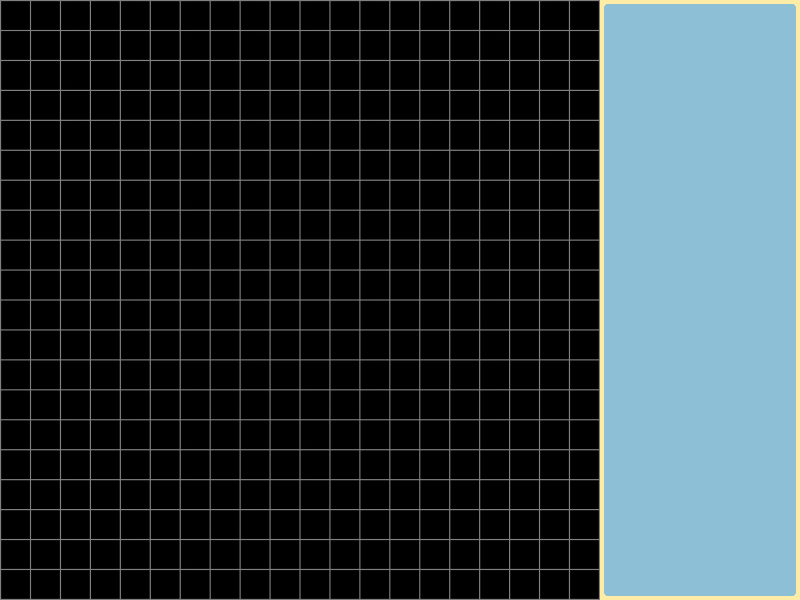
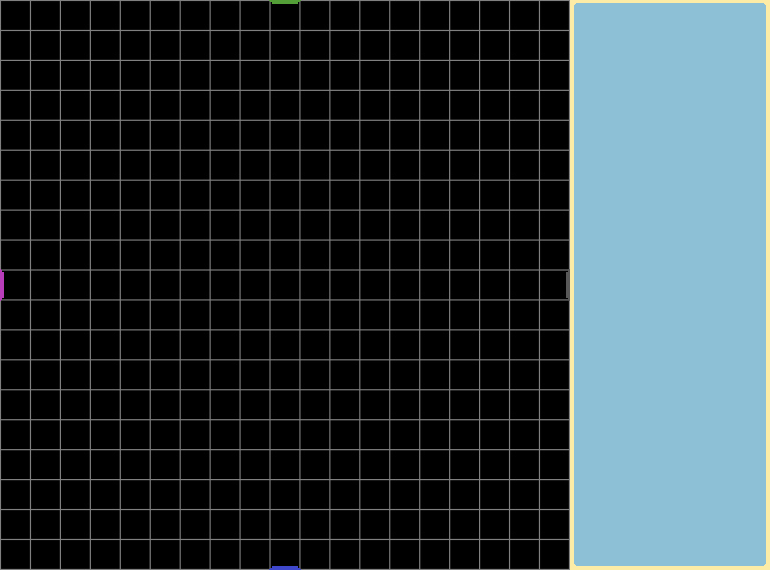
Add files via upload

Changed region(s): [[0.0, 0.0, 0.7792, 1.0]]

diff --git a/snk.py b/snk.py
@@ -53,6 +53,10 @@ class PictureButton:
             return True
         return False
 
+
+
+
+
 ### кнопки
 menu_button = Button(635, 30, 130, 45, "sc bold.ttf", text="MENU", font_size = 60)
 speed_button = Button(650, 100, 100, 30, "sc bold.ttf", text="Speed", font_size = 40)
@@ -82,30 +86,34 @@ def reset_fight():
     moves = []
     dont_move = [False]*4
     config = []
-    spd = 1
+    spd = 5
     
     for i in range(amount):
         moves.append([])
-        for j in range(8):
-            moves[i].append([-100, -100])
+    for j in range(12):
+        moves[0].append([9*size, 0])
+        moves[1].append([-0, 9*size])
+        moves[2].append([9*size, 18*size])
+        moves[3].append([18*size, 9*size])
+        
+    for i in range(19):
+        config.append([0]*19)
 
-    for i in range(20):
-        config.append([0]*20)
 
-
-    moves[0][0][0] = size*10; moves[0][0][1] = -size
-    if amount > 1:moves[1][0][0] = -size; moves[1][0][1] = size*10
-    if amount > 2:moves[2][0][0] = size*10; moves[2][0][1] = size*20
-    if amount > 3:moves[3][0][0] = size * 20; moves[3][0][1] = size * 10
+    moves[0][0][0] = size * 9; moves[0][0][1] = 0
+    if amount > 1:moves[1][0][0] = 0; moves[1][0][1] = size * 9
+    if amount > 2:moves[2][0][0] = size * 9; moves[2][0][1] = size * 18
+    if amount > 3:moves[3][0][0] = size * 18; moves[3][0][1] = size * 9
     
 def move(x, y, direction, i):
     global dont_move
 
     if not(1 <= x//size and config[y//size][x//size-1] in (0, 3)) and not(
-           x//size < 19 and config[y//size][x//size+1] in (0, 3)) and not(
+           x//size < 18 and config[y//size][x//size+1] in (0, 3)) and not(
            1 <= y//size and config[y//size-1][x//size] in (0, 3)) and not(
-           y//size < 19 and config[y//size+1][x//size] in (0, 3)):
+           y//size < 18 and config[y//size+1][x//size] in (0, 3)):
         dont_move[i] = True
+        
             
     else:
         dont_move[i] = False
@@ -113,13 +121,13 @@ def move(x, y, direction, i):
         if 1 <= x//size and config[y//size][x//size-1] in (0, 3) and direction == 'left':
             x -= size
             changing_coords(x, y, i)
-        elif x//size < 19 and config[y//size][x//size+1] in (0, 3) and direction == 'right':
+        elif x//size < 18 and config[y//size][x//size+1] in (0, 3) and direction == 'right':
             x += size
             changing_coords(x, y, i)
         elif 1 <= y//size and config[y//size-1][x//size] in (0, 3) and direction == 'up':
             y -= size
             changing_coords(x, y, i)
-        elif y//size < 19 and config[y//size+1][x//size] in (0, 3) and direction == 'down':
+        elif y//size < 18 and config[y//size+1][x//size] in (0, 3) and direction == 'down':
             y += size
             changing_coords(x, y, i)
         else:
@@ -127,16 +135,14 @@ def move(x, y, direction, i):
 
 def changing_coords(x, y, i ):
     global moves, config
-    config[moves[i][-1][1] // size][moves[i][-1][0] // size] = 0
-
-    for j in range(len(moves[i])-1, 0, -1):
-        moves[i][j][0] = moves[i][j-1][0]
-        moves[i][j][1] = moves[i][j-1][1]
-        config[moves[i][j][1] // size][moves[i][j][0] // size] = 1
-
-    moves[i][0][0], moves[i][0][1] = x, y
+    
+    moves[i] = [[x, y]] + moves[i][:-1]
+    
+    config[moves[i][-1][1] // size][moves[i][-1][0] // size] = 0    
+    config[moves[i][1][1] // size][moves[i][1][0] // size] = 1
     config[y//size][x//size] = 2
-    config[moves[i][-1][1] // size][moves[i][-1][0] // size] = 3
+    if moves[i][-1] != moves[i][-2]:
+        config[moves[i][-1][1] // size][moves[i][-1][0] // size] = 3
 
 
 def Quit_the_game():
@@ -150,13 +156,13 @@ def Quit_the_game():
 def head_rotation(i, head_name):
     head = pg.transform.scale(pg.image.load(os.path.join(images_path, head_name)),(size, size))
 
-    if moves[i][0][1] < moves[i][1][1]:
+    if moves[i][0][1] < moves[i][1][1] or moves[i][0] == moves[i][1] == [9*size, 18*size]:
         display.blit(head, (moves[i][0][0], moves[i][0][1]))
-    if moves[i][0][1] > moves[i][1][1]:
+    if moves[i][0][1] > moves[i][1][1] or moves[i][0] == moves[i][1] == [9*size, 0]:
         display.blit(pg.transform.rotate(head, 180), (moves[i][0][0], moves[i][0][1]))
-    if moves[i][0][0] > moves[i][1][0]:
+    if moves[i][0][0] > moves[i][1][0] or moves[i][0] == moves[i][1] == [0, 9*size]:
         display.blit(pg.transform.rotate(head, 270), (moves[i][0][0], moves[i][0][1]))
-    if moves[i][0][0] < moves[i][1][0]:
+    if moves[i][0][0] < moves[i][1][0] or moves[i][0] == moves[i][1] == [18*size, 9*size]:
         display.blit(pg.transform.rotate(head, 90), (moves[i][0][0], moves[i][0][1]))
 
 
@@ -214,7 +220,8 @@ def prints(i, head_name, body_name, bodyr_name, bodyl_name, tail_name):
 
     if len(moves[i]) > 2:
         for k in range(1, len(moves[i]) - 1):
-            body_rotation(k, i, head_name, body_name, bodyr_name, bodyl_name, tail_name)
+            if not moves[i][k-1] == moves[i][k]:
+                body_rotation(k, i, head_name, body_name, bodyr_name, bodyl_name, tail_name)
 
     tail_rotation(i, tail_name)
 
@@ -417,7 +424,7 @@ def analysis(I):
 
     for i in range(7):
         for j in range(7):
-            if 0 <= y+i <= 19 and 0 <= x+j <= 19:
+            if 0 <= y+i <= 18 and 0 <= x+j <= 18:
                 x2, y2 = size*(x+j), size*(y+i)
                 if config[y+i][x+j] == 2:
                     if not(i == 3 and j == 3):
@@ -441,7 +448,7 @@ def analysis(I):
                             break
                             
             else:
-                if ((y+i == -1 or y+i == 20) and (-1 <= x+j <= 20)) or ((x+j == -1 or x+j == 20) and (-1 <= y+i <= 20)):
+                if ((y+i == -1 or y+i == 19) and (-1 <= x+j <= 19)) or ((x+j == -1 or x+j == 19) and (-1 <= y+i <= 19)):
                     region[I][i][j] = 'st'
                 else:
                     region[I][i][j] = 'ed'
@@ -468,16 +475,7 @@ def print_snake(I):
             if equil: break
             
     if not(equil):
-        if I == 0 and moves[I][0] == [size*10, -size]:
-            move(moves[I][0][0], moves[I][0][1], 'down', I)
-        elif I == 1 and moves[I][0] == [-size, size*10]:
-            move(moves[I][0][0], moves[I][0][1], 'right', I)
-        elif I == 2 and moves[I][0] == [size*10, size*20]:
-            move(moves[I][0][0], moves[I][0][1], 'up', I)
-        elif I == 3 and moves[I][0] == [size * 20, size*10]:
-            move(moves[I][0][0], moves[I][0][1], 'left', I)
-        else:
-            move(moves[I][0][0], moves[I][0][1], random.choice(['up', 'down', 'left', 'right']), I)
+        move(moves[I][0][0], moves[I][0][1], random.choice(['up', 'down', 'left', 'right']), I)
 
     check_bite()
 
@@ -503,29 +501,31 @@ def check_bite():
     for i in range(amount):
         for j in range(amount):
             if i != j:
-                if moves[i][0][0] == moves[j][-1][0] and moves[i][0][1] == moves[j][-1][1]:                  
+                if moves[i][0][0] == moves[j][-1][0] and moves[i][0][1] == moves[j][-1][1]:
+                    moves[i].append([moves[i][-1][0], moves[i][-1][1]])
+                    moves[j] = moves[j][:-1]
                     if len(moves[j]) > 2:
-                        moves[i].append([moves[i][-1][0], moves[i][-1][1]])
-                        moves[j] = moves[j][:-1]
                         config[moves[j][-1][1]//size][moves[j][-1][0]//size] = 3
                 
 while Run:
     clock.tick(spd)
     mouse_pos = pg.mouse.get_pos()
-    if Fight:
-
+    if Fight: 
         display.blit(surface, (0, 0))
 
         fight_buttons()
         for i in range(amount):
-            if len(moves[i]) > 2:
-                if not len(moves[i-1]) + len(moves[i-2]) + len(moves[i-3]) == 6:
-                    analysis(i)
-                    print_snake(i)
-            else:
-                config[moves[i][-1][1]//size][moves[i][-1][0]//size] = 4
             prints(i, 'head' + str(i+1) + '.png', 'body' + str(i+1) + '.png', 'body' + str(i+1) + '_right.png', 'body' + str(i+1) + '_left.png', 'tail' + str(i+1) + '.png')
-
+            
+            if len(moves[i]) > 2:
+##                if not dont_move[0] + dont_move[1] + dont_move[2] + dont_move[3] == 3:
+                analysis(i)
+                print_snake(i)
+                    
+            else:
+                dont_move[i] = True
+                config[moves[i][-1][1]//size][moves[i][-1][0]//size] = 4
+    
     if Menu:
         spd = 60
 

diff --git a/vars.py b/vars.py
@@ -4,9 +4,9 @@ import os, sys
 import comands
 from comands import *
 # переменные
-X, Y = 1200, 900
+X, Y = int(1.5*770), int(1.5*570)
 k = X / 800
-size = Y // 20
+size = Y // 19
 amount = 4
 current_path = os.path.dirname(__file__)
 resources_path = os.path.join(current_path, 'resources')
@@ -51,7 +51,7 @@ snakes_data = [[], [], [], []]
 ##snakes_data[2].extend(basic)
 ##snakes_data[3].extend(basic)
 
-snakes_data[0].extend(circle)
+##snakes_data[0].extend(circle)
 ##snakes_data[2].extend(left1)
 ##snakes_data[3].extend(left2)
 
